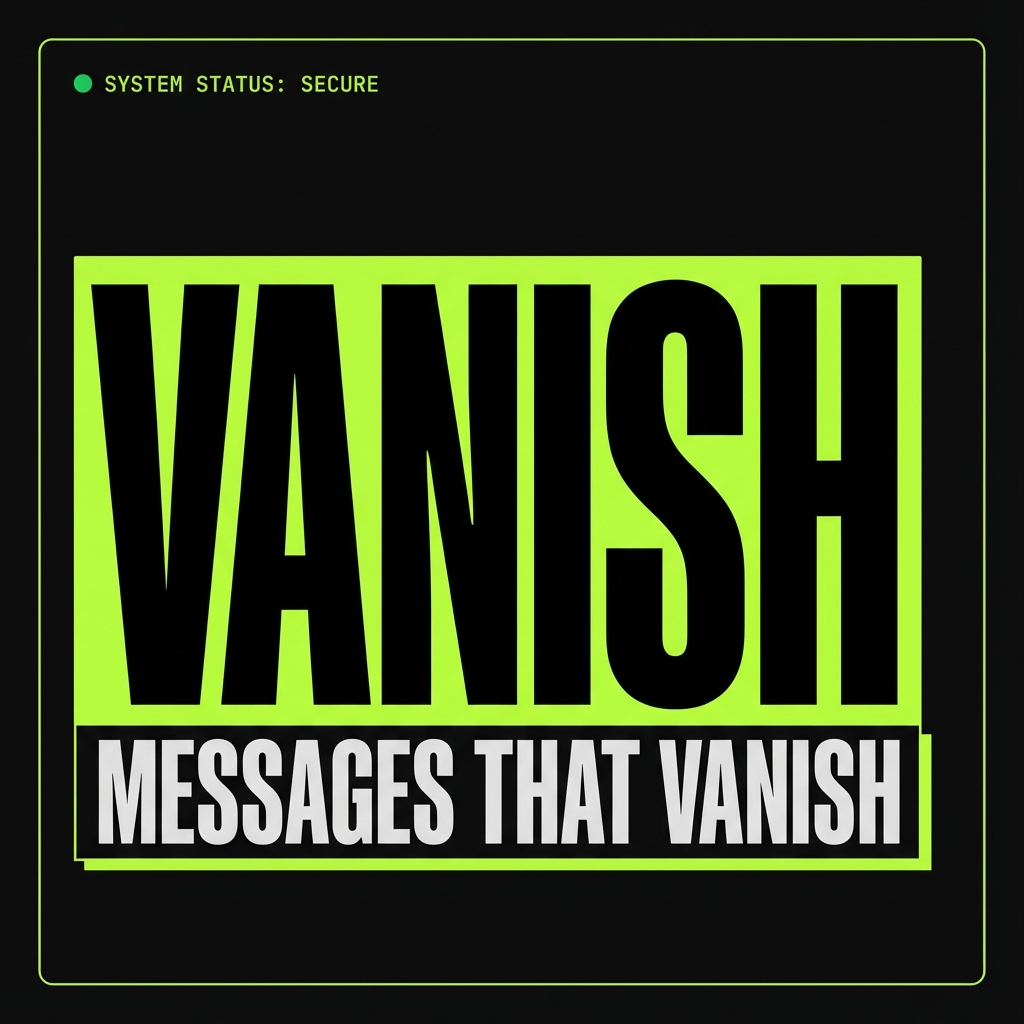
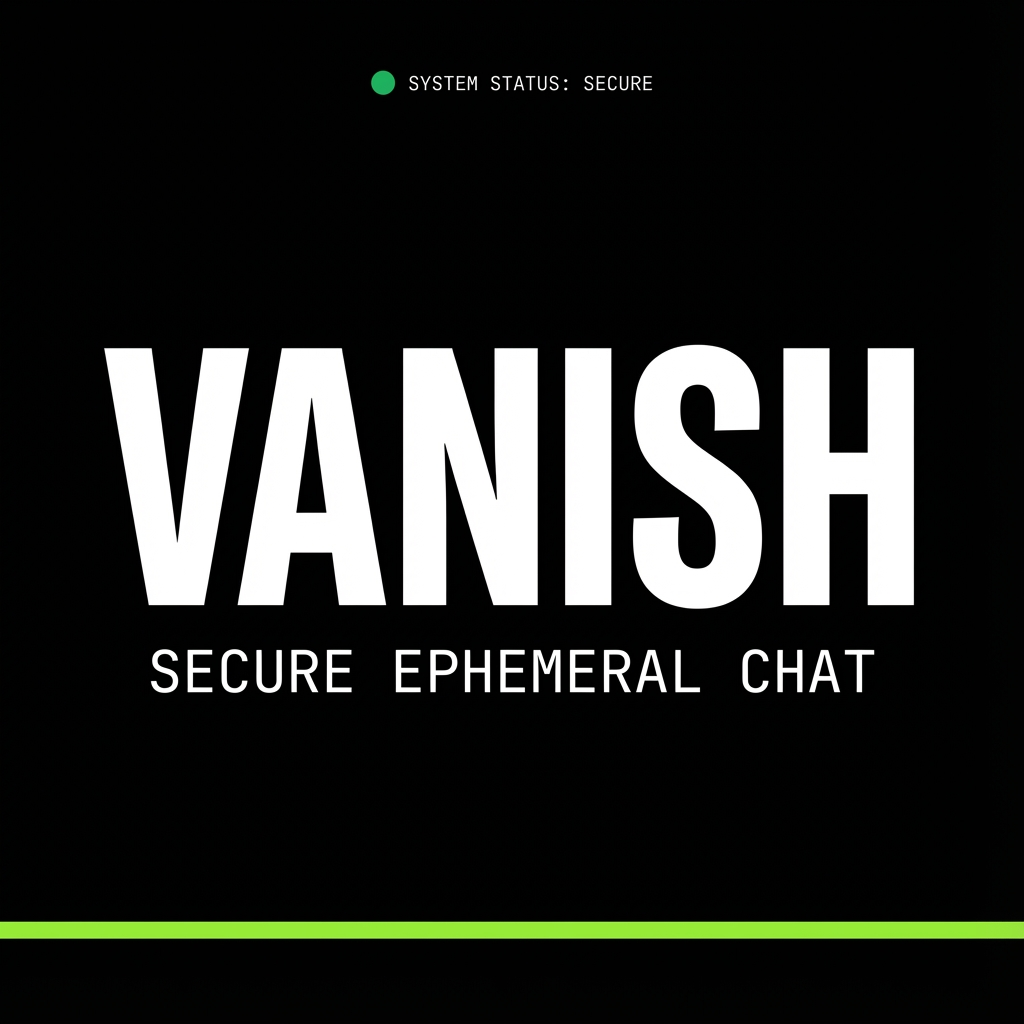
OG image set

diff --git a/src/app/layout.tsx b/src/app/layout.tsx
@@ -13,12 +13,23 @@ export const metadata: Metadata = {
   title: "Vanish | Secure Ephemeral Chat",
   description:
     "Create private, self-destructing chat rooms instantly. No logs, no history, just vanish.",
+  icons: {
+    icon: "/favicon.ico",
+  },
   openGraph: {
     title: "Vanish | Secure Ephemeral Chat",
     description:
       "Create private, self-destructing chat rooms instantly. No logs, no history, just vanish.",
     url: "https://justvanish.in",
     siteName: "Vanish",
+    images: [
+      {
+        url: "/og-image.png",
+        width: 1200,
+        height: 630,
+        alt: "Vanish - Secure Ephemeral Chat",
+      },
+    ],
     locale: "en_US",
     type: "website",
   },
@@ -27,6 +38,7 @@ export const metadata: Metadata = {
     title: "Vanish | Secure Ephemeral Chat",
     description:
       "Create private, self-destructing chat rooms instantly. No logs, no history, just vanish.",
+    images: ["/og-image.png"],
   },
 };
 
